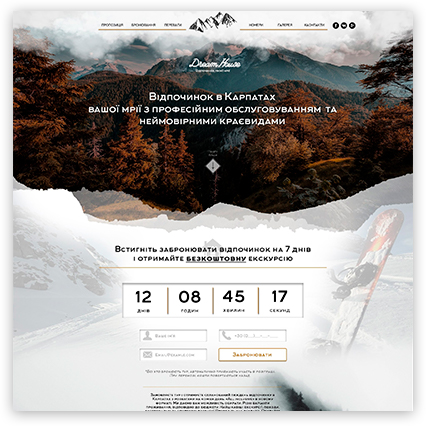
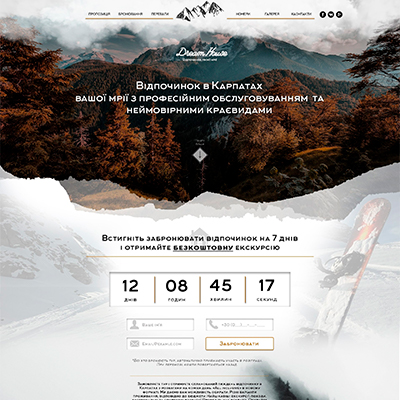
fixed bags header, portfolio

diff --git a/app/scss/style.scss b/app/scss/style.scss
@@ -8,17 +8,27 @@
 .header {
   padding: 5px 0;
   background-color: #323232;
+  min-height: 65px;
 
   &__inner {
+    position: relative;
     display: flex;
-    justify-content: space-between;
-    align-items: baseline;
+    justify-content: flex-end;
+    align-items: flex-end;
+    min-height: 57px;
+
+  }
+  .logo {
+    position: absolute;
+    content: '';
+    top: 0;
+    left: 0;
   }
 }
 
 .menu {
-  margin-right: -200px;
-
+  margin-right: 80px;
+  padding-bottom: 5px;
   &__list {
     display: flex;
 
@@ -516,18 +526,20 @@
   &__filter-btn {
     display: flex;
     justify-content: space-between;
+    align-items: baseline;
     padding: 90px 35px;
   }
 
   &__btn {
     position: relative;
     border: none;
+    border-bottom: 2px solid transparent;
     background-color: transparent;
     @extend %Roboto-400;
     font-size: 18px;
     outline: 0;
     cursor: pointer;
-
+    transition: border-color .3s;
     &:nth-last-child(+n+2)::after {
       position: absolute;
       content: '';
@@ -538,22 +550,23 @@
     }
     &:hover {
       color: #ffa200;
+      transition: color .3s;
     }
   }
 
   .mixitup-control-active {
-    padding: 0 7px 7px;
+    padding: 0 5px 5px;
     @extend %Roboto-700;
     color: #000;
-    cursor: pointer;
-    border-bottom: 2px solid #ffa200;
-   
+    border-color: 2px solid #ffa200;
+    transition: all .3s;
   }
 
 
   &__content {
     display: grid;
     grid-template-columns: repeat(3, 1fr);
+    grid-gap: 15px;
     margin-bottom: 20px;
   }
 
@@ -571,6 +584,7 @@
   &__item-img {
     width: 100%;
     object-fit: cover;
+    box-shadow: 0px 0px 5px 0px rgba(0, 1, 5, 0.3);
   }
 
   &__item-title {
@@ -618,6 +632,17 @@
 
 
 
+.Прямоугольник__скругл__углы_745 {
+  border-radius: 10px;
+  background-color: rgb(255, 255, 255);
+  box-shadow: 0px 0px 5px 0px rgba(0, 1, 5, 0.3);
+  position: absolute;
+  left: 750px;
+  top: 3684px;
+  width: 416px;
+  height: 535px;
+  z-index: 768;
+}
 
 
 
